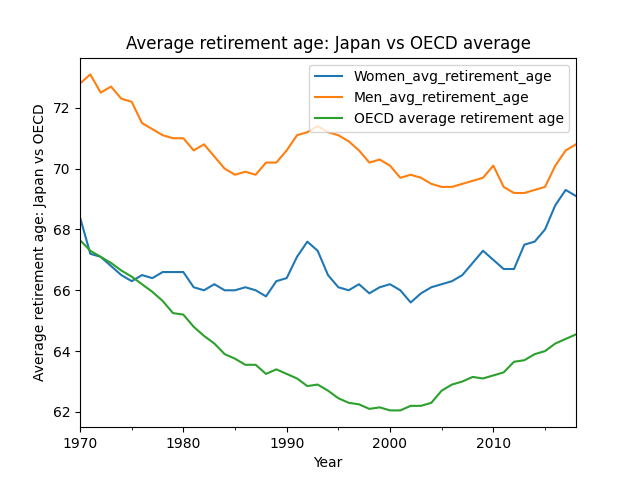
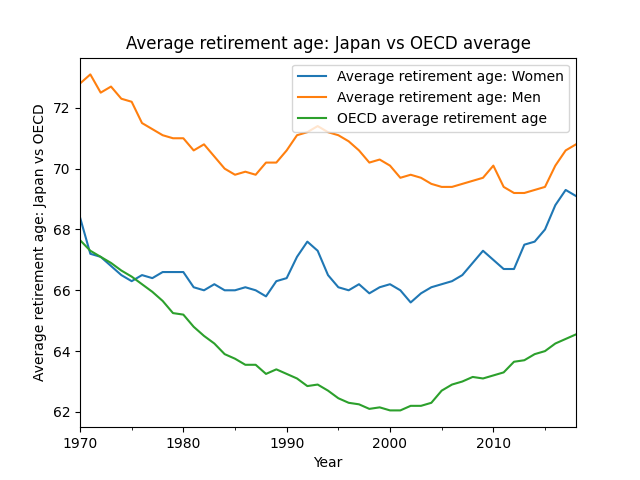
updated column names; formatting is more-or-less complete.

Changed region(s): [[0.4688, 0.125, 0.875, 0.2812]]

diff --git a/portfolio/data-presentation-project/avg_retirement_age_women.py b/portfolio/data-presentation-project/avg_retirement_age_women.py
@@ -13,10 +13,10 @@ retirement_age_df = pd.read_csv('retirement_age_men_and_women.csv', parse_dates 
 oecd_df = pd.DataFrame(retirement_age_df.loc[retirement_age_df['Entity'] == 'OECD'])
 japan_df = pd.DataFrame(retirement_age_df.loc[retirement_age_df['Entity'] == 'Japan'])
 s_korea_df = pd.DataFrame(retirement_age_df.loc[retirement_age_df['Entity'] == 'South Korea'])
-oecd_df['OECD average retirement age'] = (oecd_df['Women_avg_retirement_age']+ oecd_df['Men_avg_retirement_age']) / 2
+oecd_df['OECD average retirement age'] = (oecd_df['Average retirement age: Women']+ oecd_df['Average retirement age: Men']) / 2
 
 def column_dropper(dataframe): # quick code to remove the unnecessary columns from the OECD dataframe. functions are fun!
-    droplist = ['Entity', 'Code', 'Women_avg_retirement_age', 'Men_avg_retirement_age']
+    droplist = ['Entity', 'Code', 'Average retirement age: Women', 'Average retirement age: Men']
     for column in droplist:
         dataframe = dataframe.drop(column, axis=1)
     return dataframe
@@ -30,7 +30,7 @@ s_korea_df = pd.merge(s_korea_df, oecd_df, on='Year')
 # making new graphs using the new dataframes.
 
 japan_vs_oecd_graph = japan_df.plot(kind = 'line', x = 'Year', 
-                               y = ['Women_avg_retirement_age', 'Men_avg_retirement_age', 'OECD average retirement age'], 
+                               y = ['Average retirement age: Women', 'Average retirement age: Men', 'OECD average retirement age'], 
                                ylabel = 'Average retirement age: Japan vs OECD', 
                                legend = True, title = "Average retirement age: Japan vs OECD average")
 
@@ -38,7 +38,7 @@ japan_vs_oecd_figure = japan_vs_oecd_graph.get_figure()
 japan_vs_oecd_figure.savefig("japan_vs_oecd_fig.png")
 
 s_korea_vs_oecd_graph = s_korea_df.plot(kind = 'line', x = 'Year', 
-                               y = ['Women_avg_retirement_age', 'Men_avg_retirement_age', 'OECD average retirement age'], 
+                               y = ['Average retirement age: Women', 'Average retirement age: Men', 'OECD average retirement age'], 
                                ylabel = 'Average retirement age: South Korea vs OECD', 
                                legend = True, title = "Average retirement age: South Korea vs OECD average")
 
